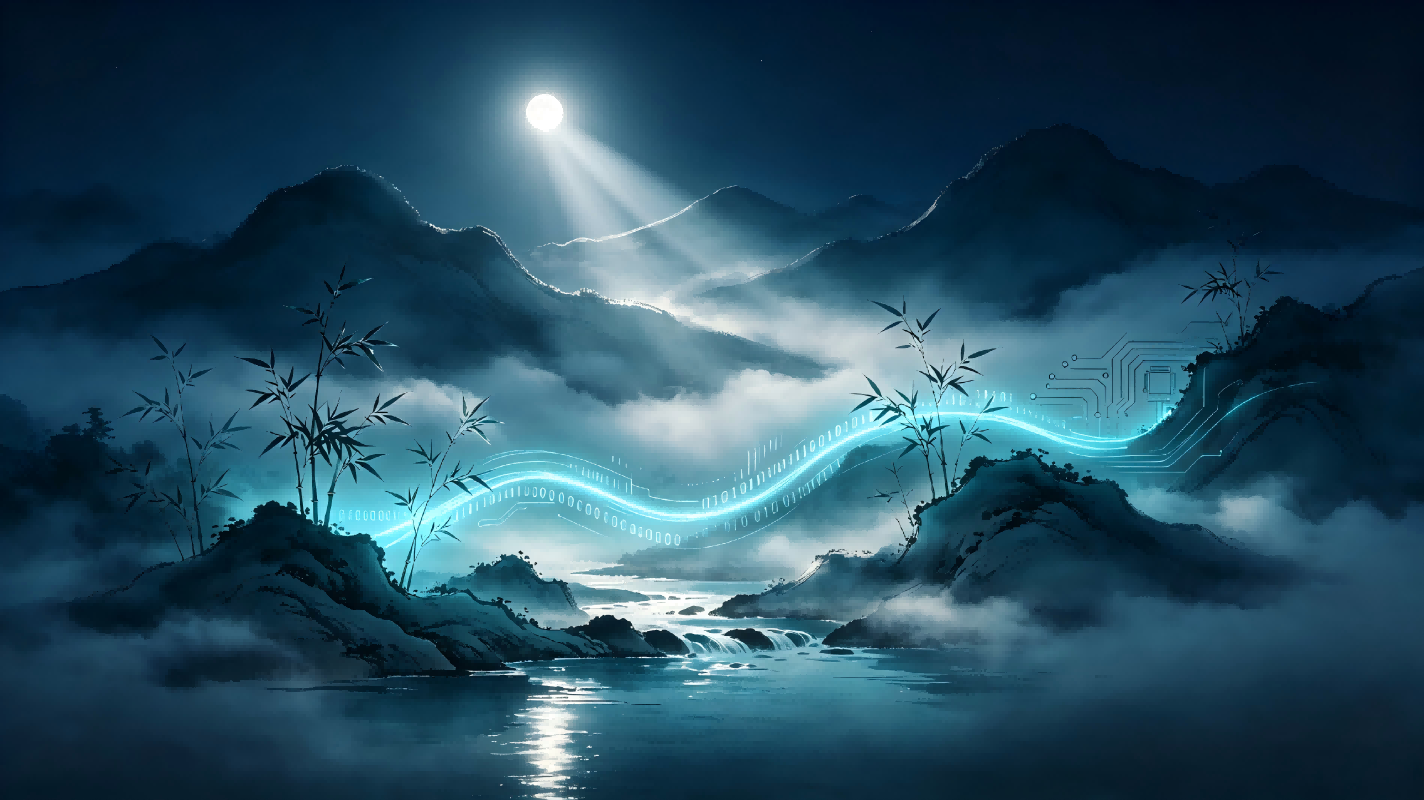
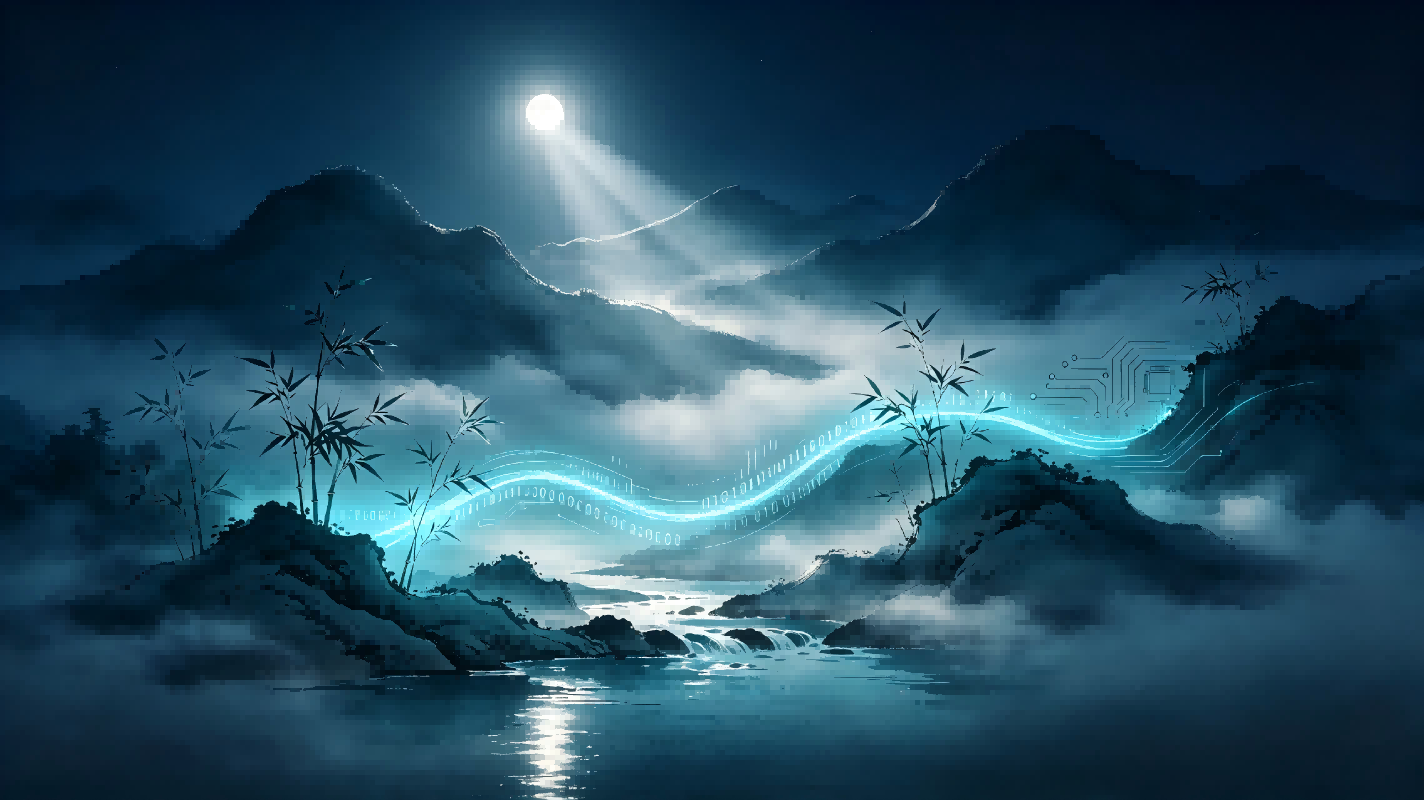
删抖音书签，背景图压缩至300KB以内

diff --git a/script.js b/script.js
@@ -105,16 +105,15 @@ function loadBookmarks() {
     bookmarks = JSON.parse(localData);
   } else {
     bookmarks = [
-      { id: 1, name: '抖音', url: 'https://www.douyin.com', icon: 'fa-music', color: '#000' },
-      { id: 2, name: 'B站', url: 'https://www.bilibili.com', icon: 'fa-play-circle', color: '#fb7299' },
-      { id: 3, name: '古德微', url: 'http://gdwrobot.com', icon: 'fa-robot', color: '#2196f3' },
-      { id: 4, name: '豆包', url: 'https://www.doubao.com', icon: 'fa-robot', color: '#1677ff' },
-      { id: 5, name: '元宝', url: 'https://yuanbao.tencent.com', icon: 'fa-coins', color: '#ffc107' },
-      { id: 6, name: '千问', url: 'https://tongyi.aliyun.com', icon: 'fa-brain', color: '#ff7a45' },
-      { id: 7, name: 'DeepSeek', url: 'https://www.deepseek.com', icon: 'fa-brain', color: '#165DFF' },
-      { id: 8, name: 'Kimi', url: 'https://kimi.moonshot.cn', icon: 'fa-comment-alt', color: '#36BFFA' },
-      { id: 9, name: 'GitHub', url: 'https://github.com', icon: 'fa-github', color: '#171515' },
-      { id: 10, name: 'AutoDL', url: 'https://www.autodl.com', icon: 'fa-cloud', color: '#1890ff' }
+      { id: 1, name: 'B站', url: 'https://www.bilibili.com', icon: 'fa-play-circle', color: '#fb7299' },
+      { id: 2, name: '古德微', url: 'http://gdwrobot.com', icon: 'fa-robot', color: '#2196f3' },
+      { id: 3, name: '豆包', url: 'https://www.doubao.com', icon: 'fa-robot', color: '#1677ff' },
+      { id: 4, name: '元宝', url: 'https://yuanbao.tencent.com', icon: 'fa-coins', color: '#ffc107' },
+      { id: 5, name: '千问', url: 'https://tongyi.aliyun.com', icon: 'fa-brain', color: '#ff7a45' },
+      { id: 6, name: 'DeepSeek', url: 'https://www.deepseek.com', icon: 'fa-brain', color: '#165DFF' },
+      { id: 7, name: 'Kimi', url: 'https://kimi.moonshot.cn', icon: 'fa-comment-alt', color: '#36BFFA' },
+      { id: 8, name: 'GitHub', url: 'https://github.com', icon: 'fa-github', color: '#171515' },
+      { id: 9, name: 'AutoDL', url: 'https://www.autodl.com', icon: 'fa-cloud', color: '#1890ff' }
     ];
     saveBookmarksToLocal();
   }
